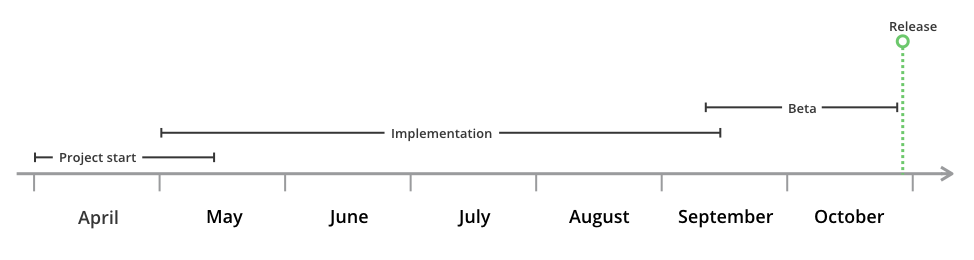
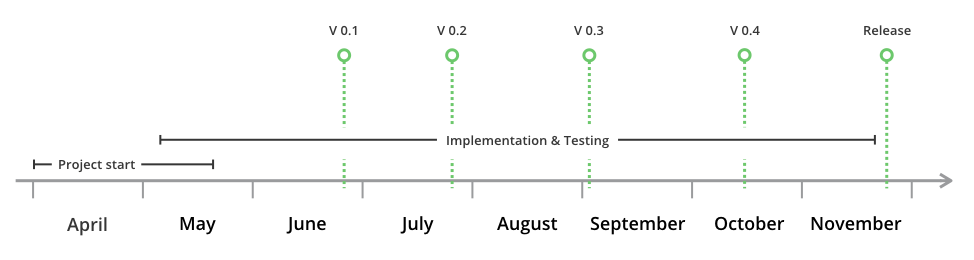
Updated roadmap

diff --git a/index.md b/index.md
@@ -47,7 +47,7 @@ You’re a developer and want to take a closer look at our source repo? [Visit o
 ### OpenWebStart Roadmap
 We have been able to secure a good part of the required funding, and 
 we and our sponsors are currently discussing the list of features that we are going to implement.
-Our goal is to have beta tests and a release candidate ready in Q3/2019.
+Our goal is to have the final release 1.0 ready in November 2019.
 
 The following diagram shows the roadmap:
 
